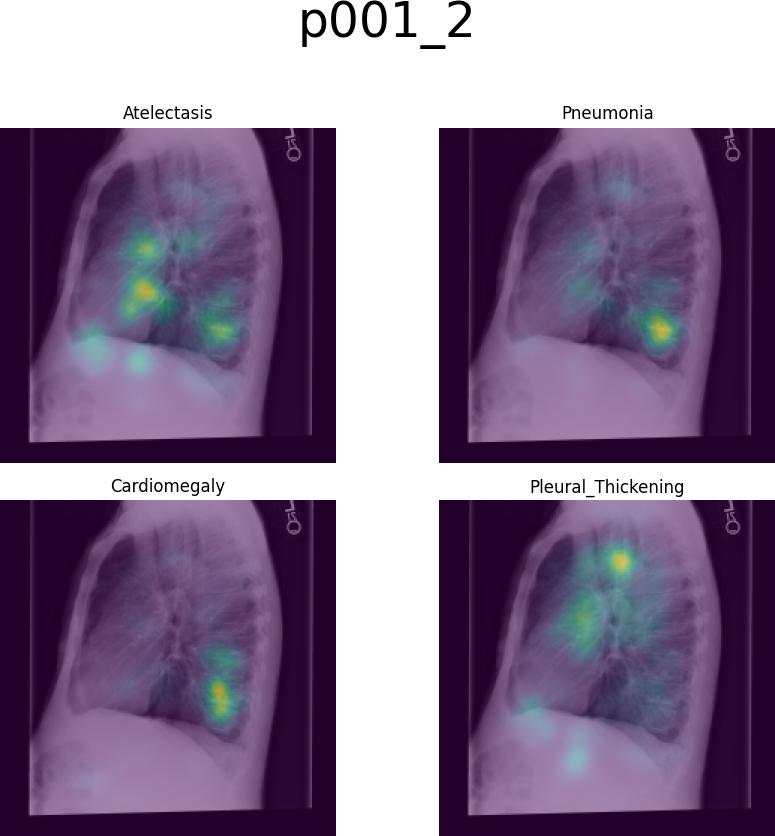
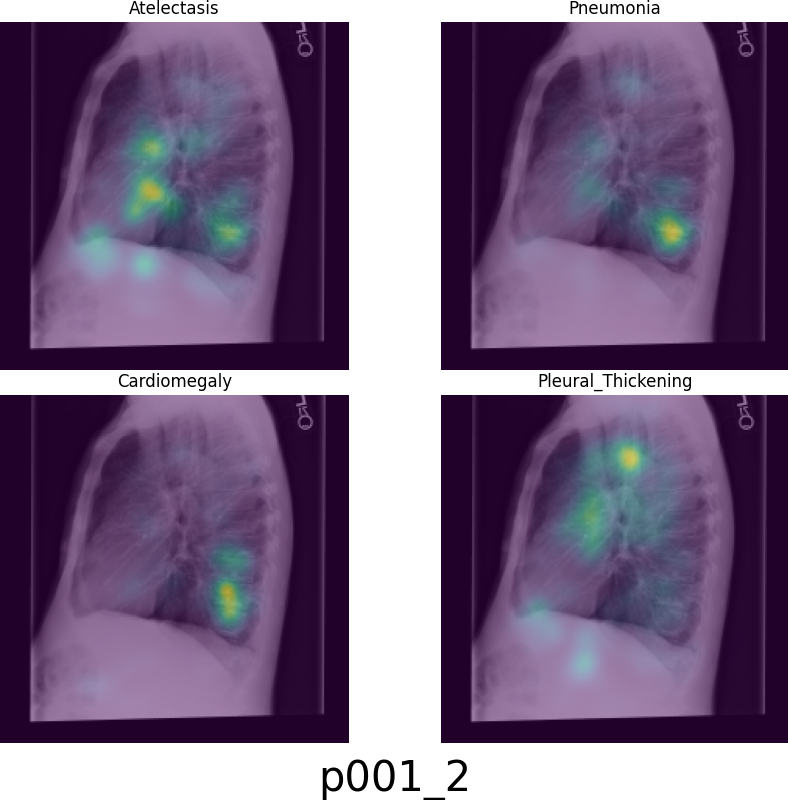
adjusted heatmaps

diff --git a/src/backend/detection-processor/PredictionModel/heatmaps.py b/src/backend/detection-processor/PredictionModel/heatmaps.py
@@ -35,12 +35,18 @@ def genheatmap(img_path):
     model = xrv.models.get_model("densenet121-res224-all")
 
     # choose the pathology for which to generate heatmaps
-    #target = model.pathologies.index(pathology)
+    # target = model.pathologies.index(pathology)
 
     img = img.requires_grad_()
 
     my_dpi = 100
-    fig, axs = plt.subplots(2, 2, frameon=True, figsize=(4*224 / my_dpi, 4*224 / my_dpi), dpi=my_dpi)
+    fig, axs = plt.subplots(
+        2,
+        2,
+        frameon=True,
+        figsize=(4 * 224 / my_dpi, 4 * 224 / my_dpi),
+        dpi=my_dpi,
+    )
 
     # making heatmap for each disease
     for i, target in enumerate(diseases):
@@ -57,14 +63,17 @@ def genheatmap(img_path):
         ax.imshow(img[0][0].detach().cpu().numpy(), cmap="gray", aspect="auto")
         ax.imshow(blurred, alpha=0.5)
         ax.set_title(target)
-    
-    fig.suptitle(f'{os.path.basename(img_path)[:-4]}', fontsize=35)
+
+    fig.suptitle(f"{os.path.basename(img_path)[:-4]}", fontsize=30, y=0.03)
 
     # Adjust layout
     plt.tight_layout(rect=[0, 0.03, 1, 0.95])
-    #plt.tight_layout()
+    # plt.tight_layout()
     fig.savefig(
-        img_path[:-4]+'_heatmaps.png', dpi=my_dpi, bbox_inches="tight", pad_inches=0
+        img_path[:-4] + "_heatmaps.png",
+        dpi=my_dpi,
+        bbox_inches="tight",
+        pad_inches=0,
     )
     plt.close(fig)
 
